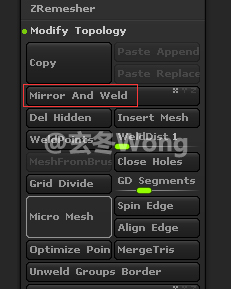
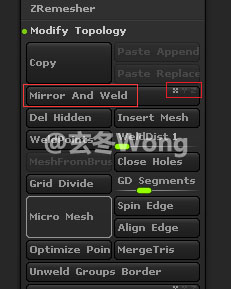
update articles

diff --git a/content/post/2016/[UE4]如何制作RTS游戏中的角色脚下圆环.md b/content/post/2016/[UE4]如何制作RTS游戏中的角色脚下圆环.md
@@ -10,46 +10,46 @@ tags:
 
 
 1，准备好贴图
-![This is an image](/img/[UE4]如何制作RTS游戏中的角色脚下圆环/[UE4]如何制作RTS游戏中的角色脚下圆环-1.jpg)
+![This is an image](/img/20160612-[UE4]如何制作RTS游戏中的角色脚下圆环/[UE4]如何制作RTS游戏中的角色脚下圆环-1.jpg)
 
 2，新建一个材质蓝图
-![This is an image](/img/[UE4]如何制作RTS游戏中的角色脚下圆环/[UE4]如何制作RTS游戏中的角色脚下圆环-2.jpg)
+![This is an image](/img/20160612-[UE4]如何制作RTS游戏中的角色脚下圆环/[UE4]如何制作RTS游戏中的角色脚下圆环-2.jpg)
 
 3，在蓝图中新建个Texture Sample节点，并设置为之前准备的贴图
-![This is an image](/img/[UE4]如何制作RTS游戏中的角色脚下圆环/[UE4]如何制作RTS游戏中的角色脚下圆环-3.jpg)
+![This is an image](/img/20160612-[UE4]如何制作RTS游戏中的角色脚下圆环/[UE4]如何制作RTS游戏中的角色脚下圆环-3.jpg)
 
 4，将材质的Blend Mode设置为Translucent半透明模式
-![This is an image](/img/[UE4]如何制作RTS游戏中的角色脚下圆环/[UE4]如何制作RTS游戏中的角色脚下圆环-4.jpg)
+![This is an image](/img/20160612-[UE4]如何制作RTS游戏中的角色脚下圆环/[UE4]如何制作RTS游戏中的角色脚下圆环-4.jpg)
 
 5，设置好材质的BaseColor和Opacity
-![This is an image](/img/[UE4]如何制作RTS游戏中的角色脚下圆环/[UE4]如何制作RTS游戏中的角色脚下圆环-5.jpg)
+![This is an image](/img/20160612-[UE4]如何制作RTS游戏中的角色脚下圆环/[UE4]如何制作RTS游戏中的角色脚下圆环-5.jpg)
 
 6，然后新建一个Actor蓝图
-![This is an image](/img/[UE4]如何制作RTS游戏中的角色脚下圆环/[UE4]如何制作RTS游戏中的角色脚下圆环-6.jpg)
+![This is an image](/img/20160612-[UE4]如何制作RTS游戏中的角色脚下圆环/[UE4]如何制作RTS游戏中的角色脚下圆环-6.jpg)
 
-![This is an image](/img/[UE4]如何制作RTS游戏中的角色脚下圆环/[UE4]如何制作RTS游戏中的角色脚下圆环-7.jpg)
+![This is an image](/img/20160612-[UE4]如何制作RTS游戏中的角色脚下圆环/[UE4]如何制作RTS游戏中的角色脚下圆环-7.jpg)
 
-![This is an image](/img/[UE4]如何制作RTS游戏中的角色脚下圆环/[UE4]如何制作RTS游戏中的角色脚下圆环-8.jpg)
+![This is an image](/img/20160612-[UE4]如何制作RTS游戏中的角色脚下圆环/[UE4]如何制作RTS游戏中的角色脚下圆环-8.jpg)
 
 7，在actor蓝图中新建个Scene组件
-![This is an image](/img/[UE4]如何制作RTS游戏中的角色脚下圆环/[UE4]如何制作RTS游戏中的角色脚下圆环-9.jpg)
+![This is an image](/img/20160612-[UE4]如何制作RTS游戏中的角色脚下圆环/[UE4]如何制作RTS游戏中的角色脚下圆环-9.jpg)
 
 8，将新建个Scene组件拖拽到Root根节点中，以替换原来默认根节点
-![This is an image](/img/[UE4]如何制作RTS游戏中的角色脚下圆环/[UE4]如何制作RTS游戏中的角色脚下圆环-11.jpg)
+![This is an image](/img/20160612-[UE4]如何制作RTS游戏中的角色脚下圆环/[UE4]如何制作RTS游戏中的角色脚下圆环-11.jpg)
 
 10，然后再新建一个StaticMesh组件
-![This is an image](/img/[UE4]如何制作RTS游戏中的角色脚下圆环/[UE4]如何制作RTS游戏中的角色脚下圆环-12.jpg)
+![This is an image](/img/20160612-[UE4]如何制作RTS游戏中的角色脚下圆环/[UE4]如何制作RTS游戏中的角色脚下圆环-12.jpg)
 
 11，然后将这个StaticMesh组件的Mesh设置为一个地砖形状的模型
-![This is an image](/img/[UE4]如何制作RTS游戏中的角色脚下圆环/[UE4]如何制作RTS游戏中的角色脚下圆环-13.jpg)
+![This is an image](/img/20160612-[UE4]如何制作RTS游戏中的角色脚下圆环/[UE4]如何制作RTS游戏中的角色脚下圆环-13.jpg)
 
 12，同时讲StaticMesh的材质设置为之前新建个材质
-![This is an image](/img/[UE4]如何制作RTS游戏中的角色脚下圆环/[UE4]如何制作RTS游戏中的角色脚下圆环-14.jpg)
+![This is an image](/img/20160612-[UE4]如何制作RTS游戏中的角色脚下圆环/[UE4]如何制作RTS游戏中的角色脚下圆环-14.jpg)
 
 13，然后将actor蓝图设置为Movable
-![This is an image](/img/[UE4]如何制作RTS游戏中的角色脚下圆环/[UE4]如何制作RTS游戏中的角色脚下圆环-15.jpg)
+![This is an image](/img/20160612-[UE4]如何制作RTS游戏中的角色脚下圆环/[UE4]如何制作RTS游戏中的角色脚下圆环-15.jpg)
 
 14，这样设置完成了，之后就可以将这个actor蓝图spawn到场景中并attach到人物的身上，并设置后相对坐标即可
-![This is an image](/img/[UE4]如何制作RTS游戏中的角色脚下圆环/[UE4]如何制作RTS游戏中的角色脚下圆环-16.jpg)
+![This is an image](/img/20160612-[UE4]如何制作RTS游戏中的角色脚下圆环/[UE4]如何制作RTS游戏中的角色脚下圆环-16.jpg)
 
-![This is an image](/img/[UE4]如何制作RTS游戏中的角色脚下圆环/[UE4]如何制作RTS游戏中的角色脚下圆环-17.jpg)
+![This is an image](/img/20160612-[UE4]如何制作RTS游戏中的角色脚下圆环/[UE4]如何制作RTS游戏中的角色脚下圆环-17.jpg)

diff --git a/content/post/2017/[ZBrush]Mirror镜像操作.md b/content/post/2017/[ZBrush]Mirror镜像操作.md
@@ -9,9 +9,10 @@ tags:
 - Sculpting
 ---
 
-反向镜像
+##### 反向镜像
 点击：Tool -》 Deformation -》 Mirror，就可以将模型反向。
 {{< figure src="/img/20170507-[ZBrush]Mirror镜像操作/[ZBrush]Mirror镜像操作-01.jpg">}}
+Mirror按钮的右上角可以选择镜像基准轴向，可选的有X、Y、Z轴，默认是X轴。
 
 执行前：
 {{< figure src="/img/20170507-[ZBrush]Mirror镜像操作/[ZBrush]Mirror镜像操作-02.jpg">}}
@@ -20,12 +21,17 @@ tags:
 {{< figure src="/img/20170507-[ZBrush]Mirror镜像操作/[ZBrush]Mirror镜像操作-03.jpg">}}
 
 
-轴对称镜像
+##### 轴对称镜像
 点击：Tool -》 Geometry -》 Modifier Topology -》 Mirror And Weld，可以将模型左边的部分复制模型右边。
 {{< figure src="/img/20170507-[ZBrush]Mirror镜像操作/[ZBrush]Mirror镜像操作-04.jpg">}}
+按钮的右上角可以选择镜像基准轴向，可选的有X、Y、Z轴，默认是X轴。
 
 执行前：
 {{< figure src="/img/20170507-[ZBrush]Mirror镜像操作/[ZBrush]Mirror镜像操作-05.jpg">}}
 
 执行后：
 {{< figure src="/img/20170507-[ZBrush]Mirror镜像操作/[ZBrush]Mirror镜像操作-06.jpg">}}
+
+##### 如何判定模型的X、Y、Z方向
+比如要镜像模型时，如何判断当前模型的朝向。可以按下W键或E键，并保证当前模型是PolyMesh3D，就可以看到Transform线条，红、绿、蓝三种颜色，分别代表X、Y、Z轴。
+{{< figure src="/img/20170507-[ZBrush]Mirror镜像操作/[ZBrush]Mirror镜像操作-07.jpg">}}

diff --git a/content/post/2017/[ZBrush]SliceCurve、Mask、Group综合使用实例：制作头盔.md b/content/post/2017/[ZBrush]SliceCurve、Mask、Group综合使用实例：制作头盔.md
@@ -11,7 +11,7 @@ tags:
 
 Keyword：ZBrush、SliceCurve、Mask、Group
 
-1，新建一个球，并转换为PolyMesh3D
+1，新建一个Sphere3D，并转换为PolyMesh3D
 {{< figure src="/img/20170721-[ZBrush]SliceCurve、Mask、Group综合使用实例：制作头盔/[ZBrush]SliceCurve、Mask、Group综合使用实例：制作头盔-01.jpg">}}
 
 2，使用SliceCurve笔刷（选中一次后再按住Ctrl + Shift），并将Stroke选择为Curve

diff --git a/content/post/2017/[ZBrush]常用笔刷(brush).md b/content/post/2017/[ZBrush]常用笔刷(brush).md
@@ -8,7 +8,7 @@ tags:
 - Modeling
 - Sculpting
 ---
-Stand
+Stand。默认笔刷，表面突起
 {{< figure src="/img/20170102-[ZBrush]常用笔刷(brush)/[ZBrush]常用笔刷(brush)-01.png">}}
 
 Dam_Standard。相当于Standard的反向操作，挖掉表面。
